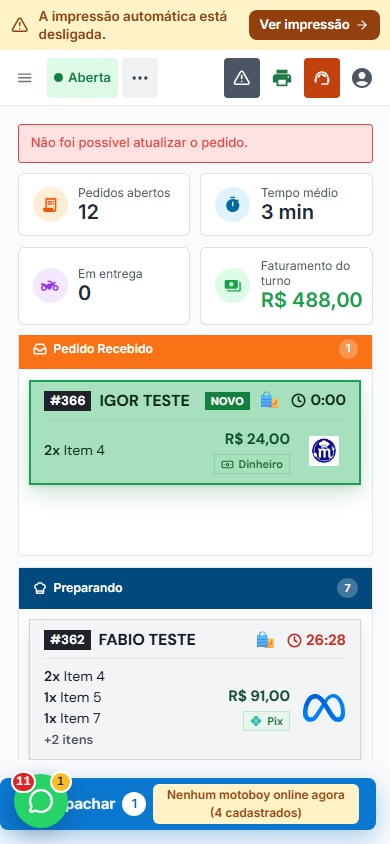
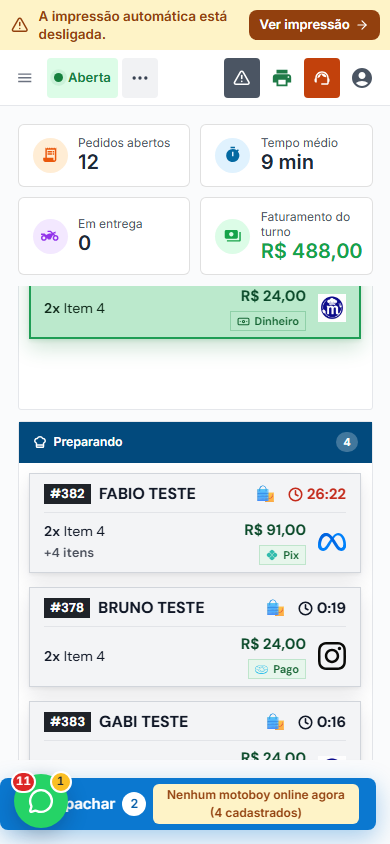
docs(kanban): altura fixa dos cards novos — relatório e prints

diff --git a/docs/relatorios/2026-10-13-kanban-cards.md b/docs/relatorios/2026-10-13-kanban-cards.md
@@ -53,3 +53,11 @@ Prints: `docs/kanban/cards-novos.png` (quadro), `painel-novo.png` (painel do ped
 
 - Regra dos 600 de peso: o modelo pede negrito. A exceção vale só para `components/pedidos/card-pedido-kanban.tsx` (anotada em `lib/peso-fonte.test.ts`); o resto do painel segue a regra.
 - Para liberar para todas as lojas: trocar a condição `useEstadoSessao()?.novidades === true` em `app/admin/pedidos/page.tsx` (variável `cardsNovos`).
+
+## Ajuste: altura fixa (pedido do dono, 13/10 madrugada — 934c65c, f6ab890)
+
+- Todo card tem **100 px de altura**, igual em todas as colunas, com o painel aberto ou fechado.
+- Itens: com **1 ou 2 itens** mostra todos; com **3 ou mais**, o 1º item e "+N itens" (ex.: 5 itens → "2x Item 4" e "+4 itens"). O resto só aparece abrindo o pedido (painel grande à direita).
+- Nada quebra linha: o nome encurta com "…" e a etiqueta de pagamento também (texto inteiro ao passar o mouse).
+- **Card estreito** (painel aberto): o card mede a própria largura e, quando fica estreito, o logo diminui e a etiqueta NOVO some (o verde piscando já mostra que é novo). Assim o nome e o tempo cabem.
+- E2E de novo na Menuzia: **27/27 ok**. Inclui as checagens novas: mesma altura com o painel fechado e aberto; "+4 itens"; logo, tempo e nome dentro do card em coluna estreita. Pedidos de teste #367–#386 fechados como "Não entregue".
